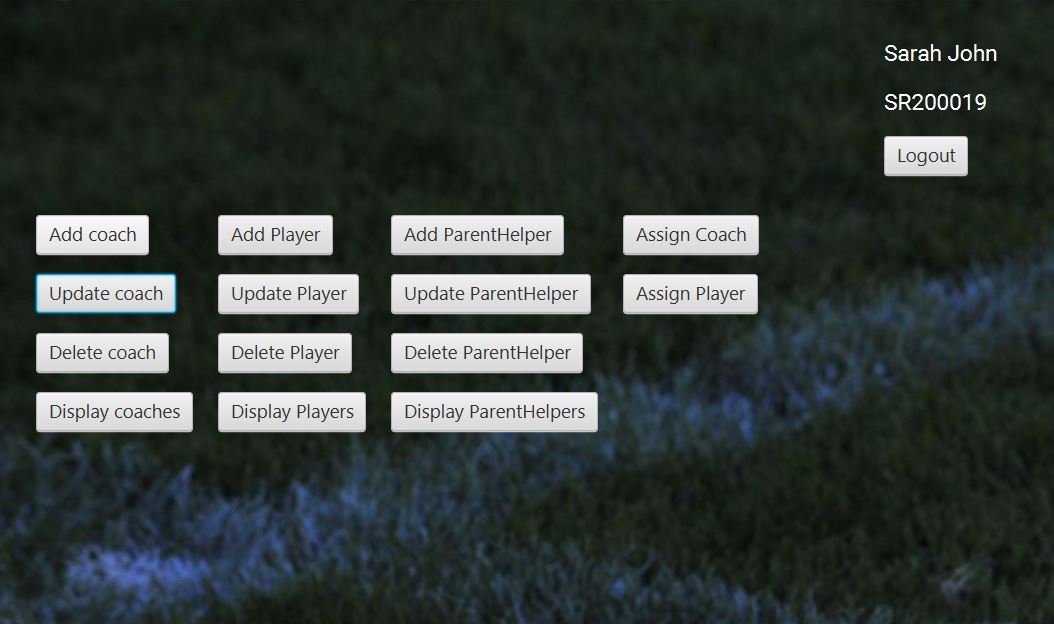
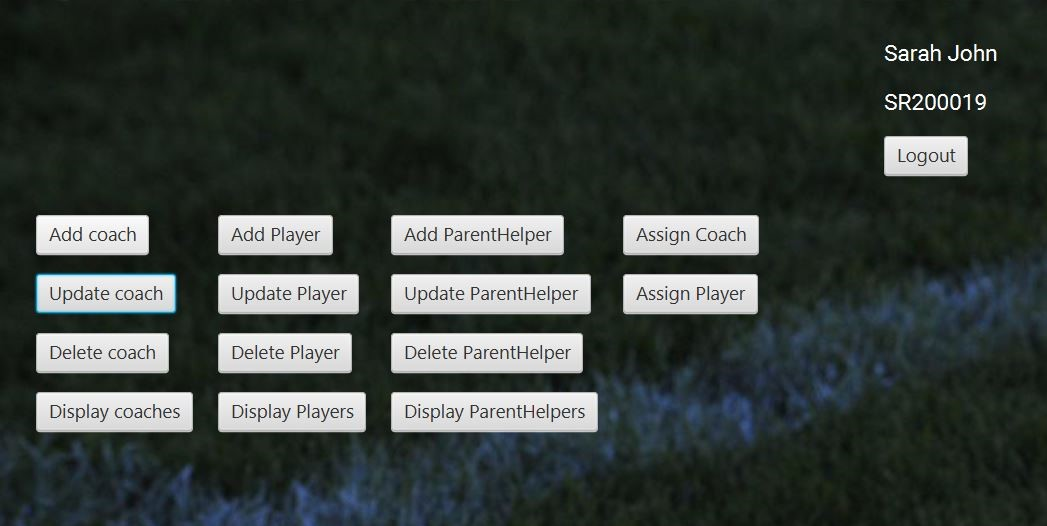
fix image size issue

diff --git a/index.html b/index.html
@@ -124,7 +124,7 @@
           </a>
         </div>
         <div class="col-md-5">
-          <h3>Edesia: Food Drivers System</h3>
+          <h3>Edesia</h3>
           <p>
             Edesia is a a web application for the Central and West Integration
             Network . The application supports food banks by matching surplus
@@ -201,7 +201,7 @@
           </a>
         </div>
         <div class="col-md-5">
-          <h3>Simple Rugby: A rugby club managment system</h3>
+          <h3>Simple Rugby</h3>
           <p>
             Simple rugby is a Java-based system for a rugby club to allow their
             coaches to keep track of players, games and training session details
@@ -233,7 +233,7 @@
           </a>
         </div>
         <div class="col-md-5">
-          <h3>Quack Whack: A WebVR game built on A-frame</h3>
+          <h3>Quack Whack</h3>
           <p>
             Quack Whack is a WebVR game, it is played using a card board or a VR
             machine. The game is played by throwing a box to a duck and
@@ -263,24 +263,25 @@
           <a href="#">
             <img
               class="img-fluid rounded mb-3 mb-md-0"
+              id="habrieta"
               src="media/habrieta.jpeg"
               alt=""
             />
           </a>
         </div>
         <div class="col-md-5">
-          <h3>Habrieta App: Asylum and Refugee services app</h3>
+          <h3>Habrieta App</h3>
           <p>
             Habrieta App is an app that allows newly arrived asylum seekers to
             access different services. the app also allows organisation to add
             new services. The technology stack used is ReactNative.
           </p>
-          <a
+          <!-- <a
             class="btn btn-primary"
-            href="https://bizvento.com/case-study-university-of-glasgow/"
+            href=""
             target="_blank"
             >Get App</a
-          >
+          > -->
           <a
             class="btn btn-lg btn-social-icon btn-github"
             href="https://github.com/afessha/Habrieta-app"
@@ -339,7 +340,7 @@
           </a>
         </div>
         <div class="col-md-5">
-          <h3>My Shell: A simple shell to run basic commands</h3>
+          <h3>My Shell</h3>
           <p>
             A C program for a simple shell, to excute basic commands.
           </p>
@@ -365,7 +366,7 @@
           </a>
         </div>
         <div class="col-md-5">
-          <h3>Your Bank: Account management app for a bank</h3>
+          <h3>Your Bank</h3>
           <p>
             A program led to by JP Morgan to build an app that manages accounts.
             It's built with Java, JavaScript, HTML and CSS.
@@ -393,7 +394,7 @@
           </a>
         </div>
         <div class="col-md-5">
-          <h3>Cryptogram: A game to play cryptogram.</h3>
+          <h3>Cryptogram Game</h3>
           <p>
             A program written in java to play cryptogram by cyphering and
             dicyphering crptograms.
@@ -421,7 +422,7 @@
           </a>
         </div>
         <div class="col-md-5">
-          <h3>Restaurant Booking: Booking system to reserve table</h3>
+          <h3>Restaurant Booking</h3>
           <p>
             Restaurant Booking web app, which can be used to reserve table in a
             restaurant, customers who booked can be viewed in a table format and

diff --git a/css/index.css b/css/index.css
@@ -11,7 +11,9 @@ a {
 .img-circle {
   border-radius: 0;
 }
-
+#habrieta {
+  height: 400px;
+}
 .ratio {
   background-position: center center;
   background-repeat: no-repeat;
